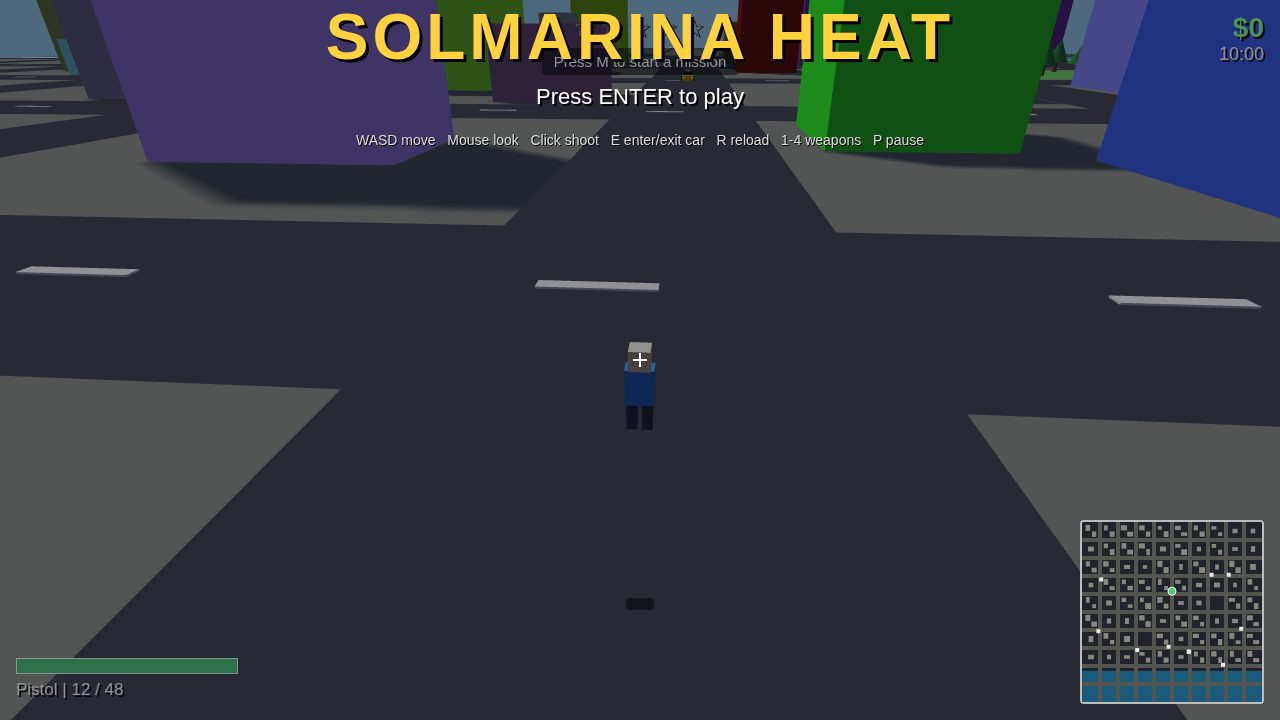
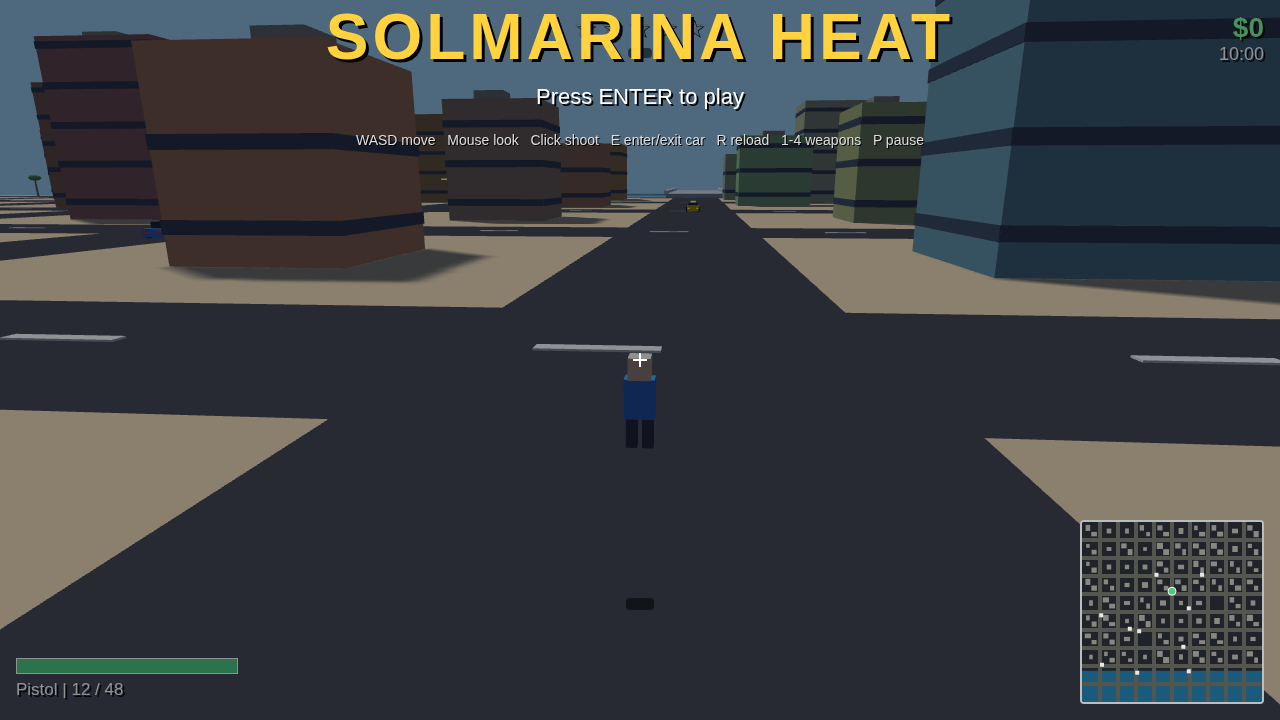
3D polish: lower camera, windowed buildings, muted coastal palette, chase speed fix

diff --git a/game/src/city.js b/game/src/city.js
@@ -13,6 +13,17 @@
     return matCache[color];
   }
 
+  // Jitter a colour per channel (clamped). Never add a raw integer to a
+  // hex colour: borrows across channels shift the hue (that is how
+  // buildings turned purple/magenta). amt = max shift per channel.
+  function jitterColor(base, amt) {
+    var r = (base >> 16) & 255, g = (base >> 8) & 255, b = base & 255;
+    r = Math.max(0, Math.min(255, r + R.randInt(-amt, amt)));
+    g = Math.max(0, Math.min(255, g + R.randInt(-amt, amt)));
+    b = Math.max(0, Math.min(255, b + R.randInt(-amt, amt)));
+    return (r << 16) | (g << 8) | b;
+  }
+
   function box(w, h, d, color, x, y, z, group) {
     var m = new THREE.Mesh(new THREE.BoxGeometry(w, h, d), mat(color));
     m.position.set(x, y, z);
@@ -34,10 +45,12 @@
     var step = C.BLOCK;
 
     // Ground: land plane only (z from -half to WATER_Y); the bay is water.
+    // Warm sand-grey so the city reads as a sun-soaked coastal town,
+    // not a grey concrete slab.
     var landDepth = C.WATER_Y + half;
     var ground = new THREE.Mesh(
       new THREE.PlaneGeometry(C.CITY_SIZE, landDepth),
-      new THREE.MeshLambertMaterial({ color: 0x5a5a52 })
+      new THREE.MeshLambertMaterial({ color: 0x9a8a6e })
     );
     ground.rotation.x = -Math.PI / 2;
     ground.position.set(0, 0, (-half + C.WATER_Y) / 2);
@@ -122,12 +135,24 @@
           var ox = n === 2 ? (b === 0 ? -9 : 9) : 0;
           var oz = n === 2 ? (b === 0 ? -9 : 9) : 0;
           var x = cx + ox, z = cz + oz;
-          // jitter the colour a little
-          var col = base + R.randInt(-0x0a0a0a, 0x0a0a0a);
+          // jitter the colour a little, per channel (see jitterColor)
+          var col = jitterColor(base, 14);
           var mesh = box(w, h, d, col, x, h / 2, z, group);
           mesh.castShadow = true;
+          // window bands: one dark stripe per floor, wrapped around the
+          // building. A flat slab with no windows reads as a 2D shape;
+          // the bands make every facade read as a real building.
+          var winMat = mat(C.WINDOW_COLOR);
+          var floors = Math.max(1, Math.round(h / 5));
+          for (var f = 0; f < floors; f++) {
+            var wy = 2.4 + f * 5;
+            if (wy > h - 1) break;
+            var band = new THREE.Mesh(new THREE.BoxGeometry(w + 0.15, 0.9, d + 0.15), winMat);
+            band.position.set(x, wy, z);
+            group.add(band);
+          }
           // rooftop box (AC unit / parapet) for silhouette variety
-          if (R.chance(0.6)) box(w * 0.3, 1.2, d * 0.3, 0x888888, x + R.randRange(-3, 3), h + 0.6, z + R.randRange(-3, 3), group);
+          if (R.chance(0.6)) box(w * 0.3, 1.2, d * 0.3, 0x8a8a7a, x + R.randRange(-3, 3), h + 0.6, z + R.randRange(-3, 3), group);
           buildings.push({ minX: x - w / 2, maxX: x + w / 2, minZ: z - d / 2, maxZ: z + d / 2, h: h });
         }
       }
@@ -156,6 +181,37 @@
     bridge.receiveShadow = true;
     box(1, 1.2, half - C.WATER_Y + 16, 0xb8b8b8, C.BRIDGE_X - C.BRIDGE_WIDTH / 2, 1.6, (C.WATER_Y + half) / 2, group);
     box(1, 1.2, half - C.WATER_Y + 16, 0xb8b8b8, C.BRIDGE_X + C.BRIDGE_WIDTH / 2, 1.6, (C.WATER_Y + half) / 2, group);
+
+    // Street lamps along the two main north-south roads: thin poles with
+    // a warm head. They mark the road edges and show vertical scale.
+    var poleMat = mat(0x3a3a3a);
+    var lampMat = new THREE.MeshLambertMaterial({ color: 0xffeebb, emissive: 0x665500 });
+    [-52, 52].forEach(function (lx) {
+      for (var lz = -208; lz <= 156; lz += 52) {
+        var pole = new THREE.Mesh(new THREE.CylinderGeometry(0.12, 0.16, 5.5, 6), poleMat);
+        pole.position.set(lx + (lx < 0 ? 8 : -8), 2.75, lz);
+        group.add(pole);
+        var head = new THREE.Mesh(new THREE.BoxGeometry(0.9, 0.25, 0.5), lampMat);
+        head.position.set(lx + (lx < 0 ? 7.4 : -7.4), 5.5, lz);
+        group.add(head);
+      }
+    });
+
+    // Palm trees along the beach strip: tall thin trunk + wide crown.
+    // Palms are the quickest "this is a 3D coastal city" read.
+    var palmTrunk = mat(0x7a5a3a);
+    var palmTop = mat(0x3a7a3a);
+    for (var px = -234; px <= 234; px += 26) {
+      if (Math.abs(px) < 16) continue; // keep the bridge mouth clear
+      var trunk = new THREE.Mesh(new THREE.CylinderGeometry(0.22, 0.32, 6, 6), palmTrunk);
+      trunk.position.set(px, 3, C.WATER_Y - 8);
+      group.add(trunk);
+      var crown = new THREE.Mesh(new THREE.SphereGeometry(1.9, 7, 5), palmTop);
+      crown.scale.y = 0.55;
+      crown.position.set(px, 6.4, C.WATER_Y - 8);
+      group.add(crown);
+      trees.push({ x: px, z: C.WATER_Y - 8 });
+    }
 
     // Collision helpers
     function isBlocked(x, z, radius) {

diff --git a/game/src/shots.js b/game/src/shots.js
@@ -22,7 +22,7 @@
     }
 
     if (shot === 'chase') {
-      // player driving a Palmetto GT down Palmetto Strip, 3 stars, police behind
+      // player driving a Palmetto GT down Palmetto Strip, 3 stars, police ahead
       game.minutes = 14 * 60;
       var gt = null;
       game.parked.forEach(function (v) {
@@ -32,17 +32,55 @@
         gt = window.SH_VEHICLES.makeVehicle(C.VEHICLES[3], 0, 100, Math.PI, 'player', game._scene);
         game.parked.push(gt);
       }
-      gt.x = 0; gt.z = 60; gt.heading = Math.PI; gt.speed = 20;
+      gt.x = 0; gt.z = 60; gt.heading = Math.PI; gt.speed = 26;
       gt.group.position.set(0, 0, 60);
       gt.group.rotation.y = Math.PI;
       game.playerCar = gt;
       gt.kind = 'player';
       game.player.mesh.visible = false;
       game.player.x = 0; game.player.z = 60;
+      // clear the GT's road (x = 0, z from 60 down to -60): a parked cab
+      // sat on this road and stopped the car dead, and traffic on the
+      // same road blocked it. Move parked cars off the road, and reassign
+      // traffic cars that drive on it to the x = 156 road.
+      game.parked.forEach(function (v) {
+        if (v === gt) return;
+        if (Math.abs(v.x) < 20) {
+          v.x = v.x >= 0 ? 104 : -104;
+          v.group.position.set(v.x, 0, v.z);
+        }
+      });
+      game.traffic.cars.forEach(function (v) {
+        if (!v.alongX && Math.abs(v.line) < 20) {
+          v.line = 156;
+          v.x = 156 + (v.dir > 0 ? -3.5 : 3.5);
+          v.z = -100;
+          v.heading = v.dir > 0 ? 0 : Math.PI;
+          v.group.position.set(v.x, 0, v.z);
+          v.group.rotation.y = v.heading;
+        } else if (v.alongX && Math.abs(v.x) < 15 && v.z > -40 && v.z < 60) {
+          v.x = v.x >= 0 ? 120 : -120;
+          v.group.position.set(v.x, 0, v.z);
+        }
+      });
+      // police: two interceptors AHEAD of the GT, in the camera's forward
+      // view (a random spawn can land behind the camera and never be seen).
+      // They drive the same way, slower, so the GT closes on them; their
+      // pursuit steering turns them toward the player, headlights first.
       game.police.heat = 55;
       game.police.stars = 3;
       game.police.spawnCar(game.player);
       game.police.spawnCar(game.player);
+      var spots = [
+        { x: -2.5, z: 10, speed: 20 },
+        { x: 2.5, z: 35, speed: 22 }
+      ];
+      game.police.cars.forEach(function (c, i) {
+        var s = spots[i % spots.length];
+        c.x = s.x; c.z = s.z; c.heading = Math.PI; c.speed = s.speed;
+        c.group.position.set(c.x, 0, c.z);
+        c.group.rotation.y = Math.PI;
+      });
       game.player.money = 1250;
       return;
     }

diff --git a/game/src/config.js b/game/src/config.js
@@ -13,13 +13,16 @@
   C.BRIDGE_X = 0;             // bridge crosses the bay at x = 0
   C.BRIDGE_WIDTH = 20;
 
-  // Districts: name, centre, palette (building colours, ground tint)
+  // Districts: name, centre, palette (building colours, ground tint).
+  // Muted sun-soaked coastal palette: warm sand, terracotta, soft teal,
+  // sage green, warm brick. No toy-bright saturated colours.
   C.DISTRICTS = [
-    { name: 'Marina Bay', cx: 0, cz: -130, color: 0x2e6f8e, ground: 0x3a7a8c },
-    { name: 'Palmetto Strip', cx: 0, cz: 0, color: 0xc96a2e, ground: 0x8a6a4a },
-    { name: 'Las Brisas', cx: -130, cz: 90, color: 0x7a9e4a, ground: 0x5a7a3a },
-    { name: 'Old Cannery', cx: 130, cz: 90, color: 0x8a4a3a, ground: 0x6a5a4a }
+    { name: 'Marina Bay', cx: 0, cz: -130, color: 0x5a8a9a, ground: 0x3a7a8c },
+    { name: 'Palmetto Strip', cx: 0, cz: 0, color: 0xc98a5a, ground: 0x8a6a4a },
+    { name: 'Las Brisas', cx: -130, cz: 90, color: 0x8aa06a, ground: 0x5a7a3a },
+    { name: 'Old Cannery', cx: 130, cz: 90, color: 0x9a6a52, ground: 0x6a5a4a }
   ];
+  C.WINDOW_COLOR = 0x33404e;   // dark window bands on building facades
 
   // Player
   C.WALK_SPEED = 6;           // m/s on foot
@@ -27,10 +30,13 @@
   C.PLAYER_HEALTH = 100;
   C.PLAYER_RADIUS = 0.7;
 
-  // Camera (third person, behind and above the player)
-  C.CAM_DIST = 11;
-  C.CAM_HEIGHT = 6.5;
-  C.CAM_LOOK_UP = 1.6;
+  // Camera (third person, behind and above the player).
+  // Low and close on purpose: a high steep camera reads as top-down 2D.
+  // At 4.2m up and 13m back the car shows its rear and sides, building
+  // facades and the road ahead read as real 3D depth.
+  C.CAM_DIST = 13;
+  C.CAM_HEIGHT = 4.2;
+  C.CAM_LOOK_UP = 1.8;
 
   // Vehicles: name, top speed (m/s), accel, brake, turn, grip, colour, size
   C.VEHICLES = [

diff --git a/game/src/main.js b/game/src/main.js
@@ -191,7 +191,7 @@
       }
       // slow camera orbit on the title screen
       game.yaw += dt * 0.1;
-      window.SH_RENDER.updateCamera(renderer._cam || (renderer._cam = new THREE.PerspectiveCamera(60, window.innerWidth / window.innerHeight, 0.1, 1000)), { x: 0, z: 0 }, game.yaw, 0.3);
+      window.SH_RENDER.updateCamera(renderer._cam || (renderer._cam = new THREE.PerspectiveCamera(55, window.innerWidth / window.innerHeight, 0.1, 1000)), { x: 0, z: 0 }, game.yaw, 0.3);
       return;
     }
     if (game.state === 'wasted' || game.state === 'busted' || game.state === 'complete') {
@@ -384,7 +384,7 @@
   }
 
   function render() {
-    if (!renderer._cam) renderer._cam = new THREE.PerspectiveCamera(60, window.innerWidth / window.innerHeight, 0.1, 1000);
+    if (!renderer._cam) renderer._cam = new THREE.PerspectiveCamera(55, window.innerWidth / window.innerHeight, 0.1, 1000);
     var cam = renderer._cam;
     var target = game.playerCar
       ? { x: game.playerCar.x, z: game.playerCar.z }

diff --git a/game/src/police.js b/game/src/police.js
@@ -169,9 +169,17 @@
       else { car.heading += Math.PI * 0.5; }
       car.group.position.set(car.x, 0, car.z);
       car.group.rotation.y = car.heading;
-      // ram the player's car
+      // ram the player's car: a bump, not a kill. The old code multiplied
+      // the player's speed by 0.55 EVERY frame while touching, which
+      // zeroed the car in a tenth of a second. Now one bump per second.
       if (playerCar && d2 < 4) {
-        playerCar.speed *= 0.55;
+        car.ramCooldown = (car.ramCooldown || 0) - dt;
+        if (car.ramCooldown <= 0) {
+          playerCar.speed *= 0.55;
+          car.ramCooldown = 1.0;
+        }
+      } else {
+        car.ramCooldown = (car.ramCooldown || 0) - dt;
       }
       // run the player over on foot
       if (!playerCar && d2 < 2.2 && !player.dead) {

diff --git a/game/src/hud.js b/game/src/hud.js
@@ -73,7 +73,11 @@
       el.speed.textContent = '';
     }
     var m = game.missions.current();
-    if (game.missions.state === 'active' && m) {
+    // the objective line only belongs to live gameplay; on the title,
+    // wasted, busted and complete screens it overlaps the big overlay.
+    if (game.state !== 'playing' && game.state !== 'paused') {
+      el.objective.textContent = '';
+    } else if (game.missions.state === 'active' && m) {
       var step = game.missions.currentStep();
       el.objective.textContent = m.name + ': ' + (step ? step.text : '');
     } else if (game.missions.allDone()) {
